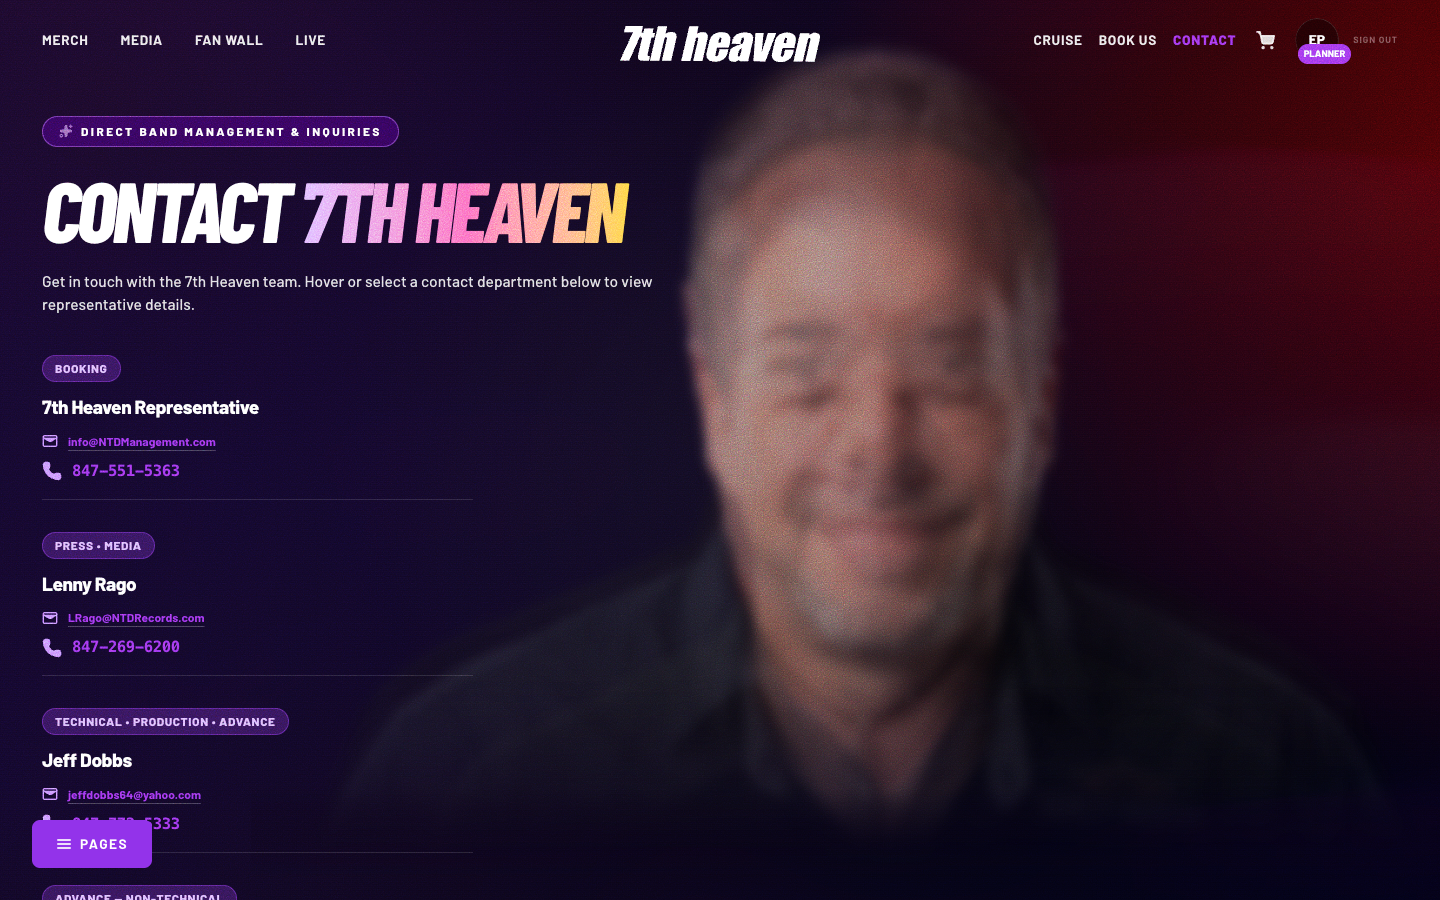
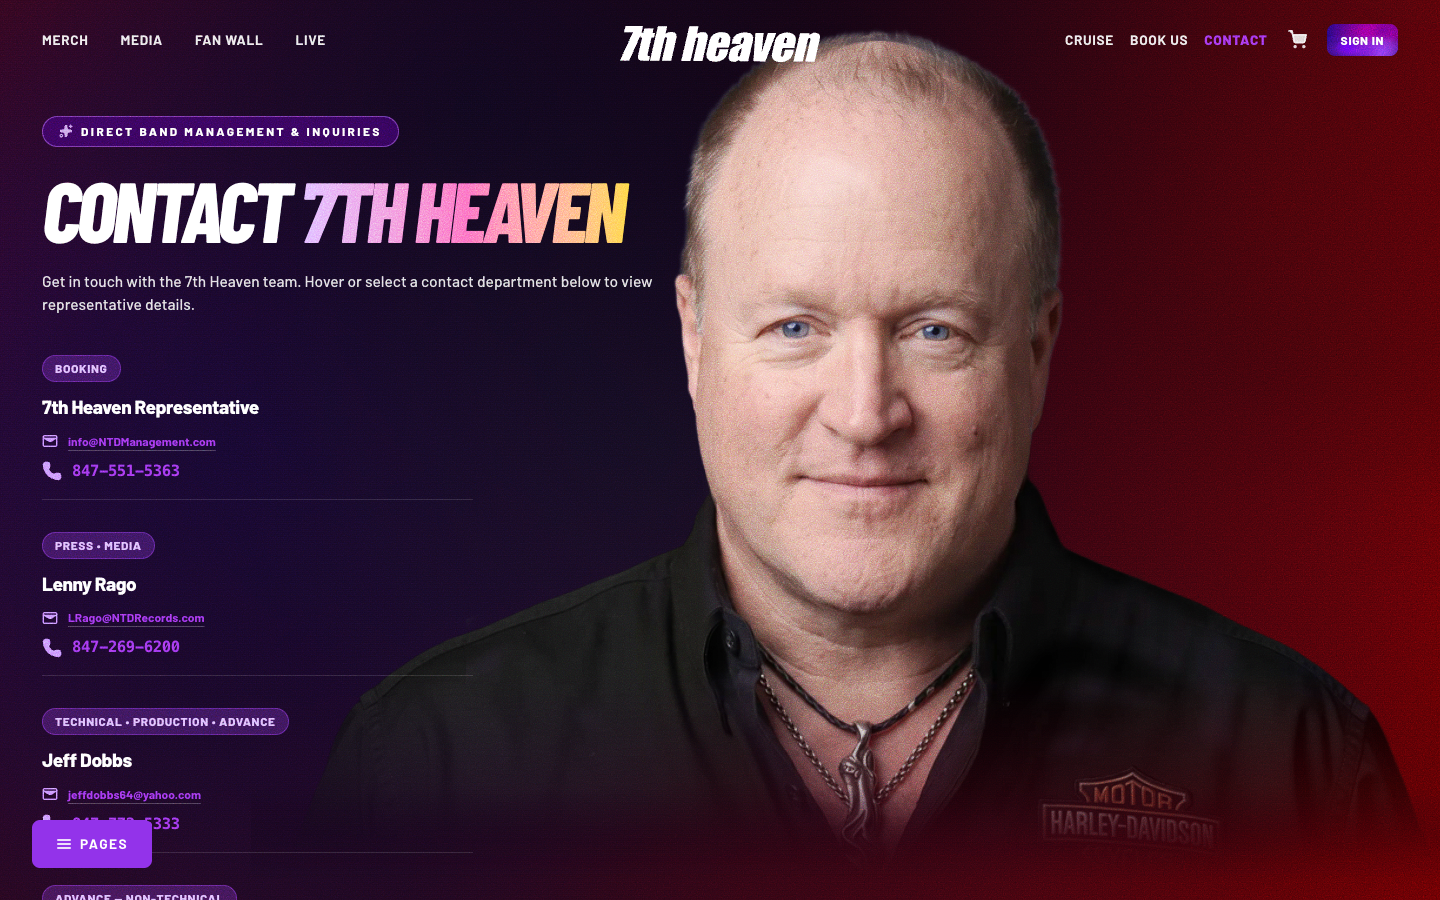
Update Contact page preview screenshot and align Featured Moment image on fan wall top-center

diff --git a/src/app/fan-photo-wall/page.tsx b/src/app/fan-photo-wall/page.tsx
@@ -331,17 +331,13 @@ export default function FansPage() {
         {/* Featured Hero Photo */}
         {approvedPhotos.length > 0 && (
           <div className="mx-auto">
-            <button aria-label="Action button"
-              type="button"
-              className="relative w-full aspect-[21/9] overflow-hidden group cursor-pointer text-left"
-              onClick={() => setSelectedPhoto(approvedPhotos[0])}
-            >
+            <div className="relative w-full aspect-[21/9] overflow-hidden text-left">
               {approvedPhotos[0].type === "video" ||
                 approvedPhotos[0].src.endsWith(".mp4") ||
                 approvedPhotos[0].src.endsWith(".mov") ? (
                 <video
                   src={approvedPhotos[0].src}
-                  className="w-full h-full object-cover"
+                  className="w-full h-full object-cover object-top"
                   autoPlay
                   loop
                   muted
@@ -351,7 +347,7 @@ export default function FansPage() {
                 <Image width={200} height={200} unoptimized
                   src={approvedPhotos[0].src}
                   alt={`Featured: ${approvedPhotos[0].name}`}
-                  className="w-full h-full object-cover"
+                  className="w-full h-full object-cover object-top"
                 />
               )}
               <div className="absolute inset-0 bg-gradient-to-t from-black/90 via-black/30 to-transparent" />
@@ -375,7 +371,7 @@ export default function FansPage() {
                   </p>
                 )}
               </div>
-            </button>
+            </div>
           </div>
         )}
 
